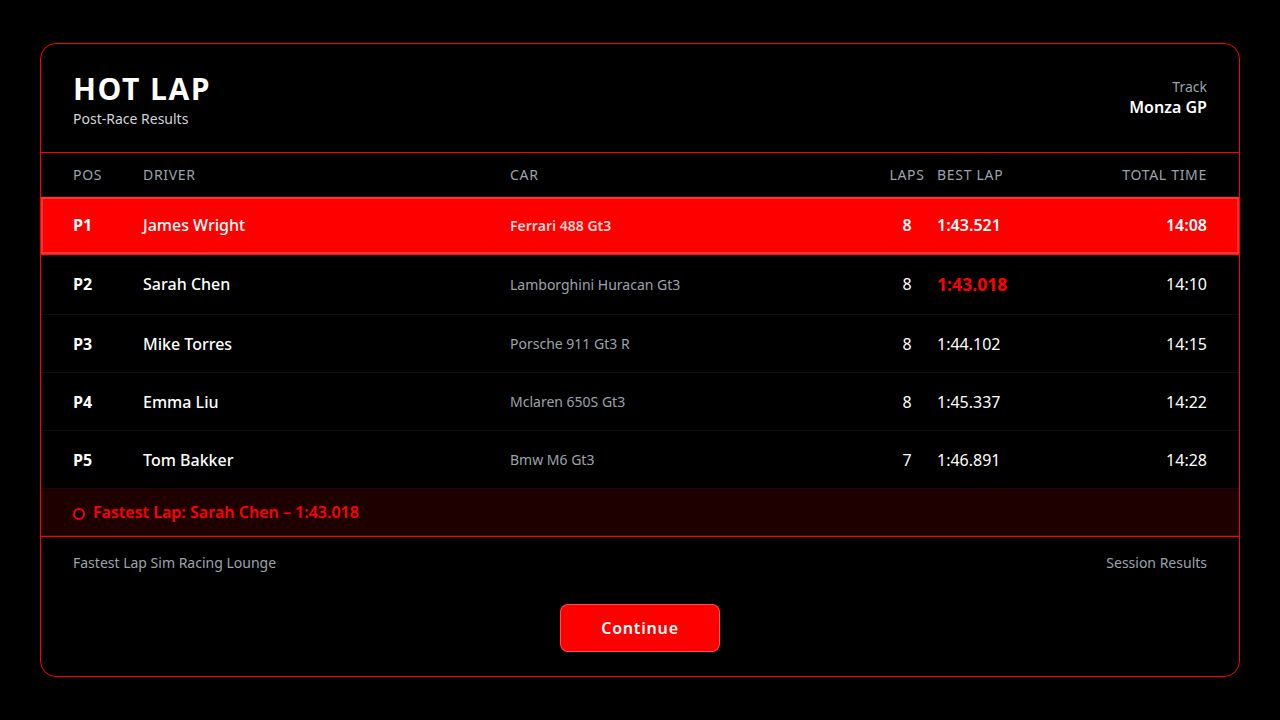
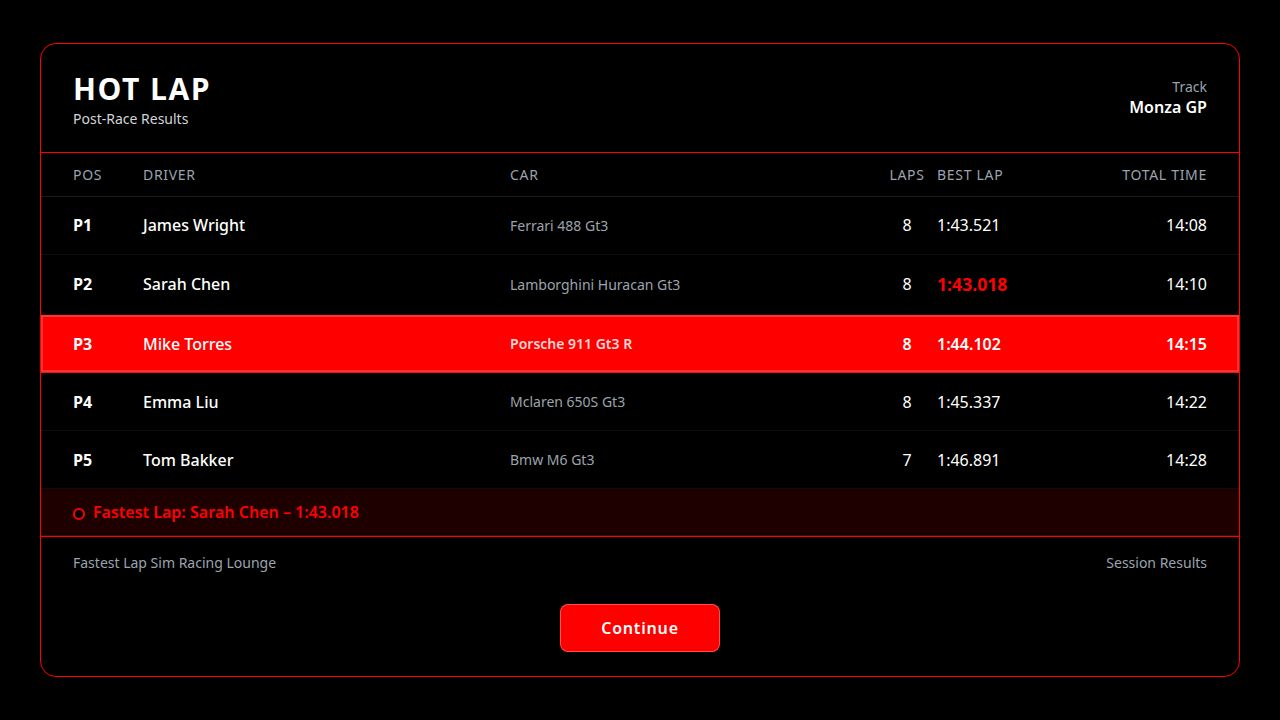
Highlight the local driver in race results instead of the first-place driver
Update sim.html and api_routes.py to pass and use the local driver's name for highlighting in the results modal. Regenerate canvas previews and screenshots.

Replit-Commit-Author: Agent
Replit-Commit-Session-Id: 5224433c-1af1-494f-ba8a-896445ec7928
Replit-Commit-Checkpoint-Type: full_checkpoint
Replit-Commit-Event-Id: f2aba944-fc26-4616-a686-4b92e2f84175
Replit-Commit-Screenshot-Url: https://storage.googleapis.com/screenshot-production-us-central1/361f08f0-77af-4c86-bf00-a97db21ca46f/5224433c-1af1-494f-ba8a-896445ec7928/bAQrjDf
Replit-Helium-Checkpoint-Created: true

Changed region(s): [[0.0312, 0.4278, 0.9688, 0.5194], [0.0312, 0.275, 0.9688, 0.3667]]

diff --git a/controller/static/sim.html b/controller/static/sim.html
@@ -550,7 +550,7 @@
                 }, 120000);
             }
 
-            function showResultsModal(results, trackName, sessionType, totalLaps) {
+            function showResultsModal(results, trackName, sessionType, totalLaps, localDriver) {
                 if (!resultsModalOverlay || !resultsModalTbody) return;
                 trackName = (trackName != null && String(trackName).trim()) ? String(trackName).trim() : '—';
                 sessionType = (sessionType && String(sessionType).trim()) ? String(sessionType).trim().toUpperCase() : '';
@@ -592,7 +592,9 @@
                     var lap = (r.lap != null && String(r.lap).trim()) ? escapeHtml(String(r.lap).trim()) : '—';
                     var totalTime = (r.total_time != null && String(r.total_time).trim() && r.total_time !== '—') ? escapeHtml(String(r.total_time).trim()) : '—';
                     var isFastest = fastestLapDriver && r.driver && String(r.driver).trim() === fastestLapDriver;
-                    var rowClass = 'results-table-row' + (pos === 1 ? ' p1' : '') + (isFastest ? ' fastest-lap-row' : '');
+                    var _driverName = r.driver ? String(r.driver).trim() : '';
+                    var isLocal = localDriver ? _driverName.toLowerCase() === String(localDriver).trim().toLowerCase() : pos === 1;
+                    var rowClass = 'results-table-row' + (isLocal ? ' p1' : '') + (isFastest ? ' fastest-lap-row' : '');
                     html += '<div class="' + rowClass + '">';
                     html += '<span class="col-pos">P' + pos + '</span>';
                     html += '<span class="col-driver">' + driver + '</span>';
@@ -939,7 +941,7 @@
                                 var key = JSON.stringify(data.race_results);
                                 if (key !== lastShownResultsKey) {
                                     lastShownResultsKey = key;
-                                    showResultsModal(data.race_results, data.race_track_name || data.track_name || null, data.race_session_type || null, data.race_total_laps || null);
+                                    showResultsModal(data.race_results, data.race_track_name || data.track_name || null, data.race_session_type || null, data.race_total_laps || null, data.race_local_driver || null);
                                 }
                                 return;
                             }
@@ -967,7 +969,7 @@
                             var key = JSON.stringify(data.race_results);
                             if (key !== lastShownResultsKey) {
                                 lastShownResultsKey = key;
-                                showResultsModal(data.race_results, data.race_track_name || data.track_name || null, data.race_session_type || null, data.race_total_laps || null);
+                                showResultsModal(data.race_results, data.race_track_name || data.track_name || null, data.race_session_type || null, data.race_total_laps || null, data.race_local_driver || null);
                             }
                         }
                     })
@@ -994,7 +996,8 @@
                 ];
                 var _previewLaps = { RACE: 8, QUALIFY: null, PRACTICE: null, HOTLAP: null }[_previewSession];
                 document.getElementById('results-modal-overlay').style.display = 'flex';
-                showResultsModal(_sampleResults, 'Monza GP', _previewSession, _previewLaps);
+                var _localDriver = 'Mike Torres';
+                showResultsModal(_sampleResults, 'Monza GP', _previewSession, _previewLaps, _localDriver);
             }
 
 

diff --git a/controller/api_routes.py b/controller/api_routes.py
@@ -1050,6 +1050,8 @@ async def get_sim_state(agent_id: str):
             payload["race_session_type"] = agent_status.race_session_type
         if getattr(agent_status, "race_total_laps", None) is not None:
             payload["race_total_laps"] = agent_status.race_total_laps
+        if getattr(agent_status, "display_name", None) and isinstance(agent_status.display_name, str):
+            payload["race_local_driver"] = agent_status.display_name
     # Signal frontend to switch to results screen: race finished and sim has backed out (one-time per race)
     has_results = bool(payload.get("race_results") and len(payload["race_results"]) > 0)
     acs_running = (payload.get("process") or {}).get("acs_running") is True
